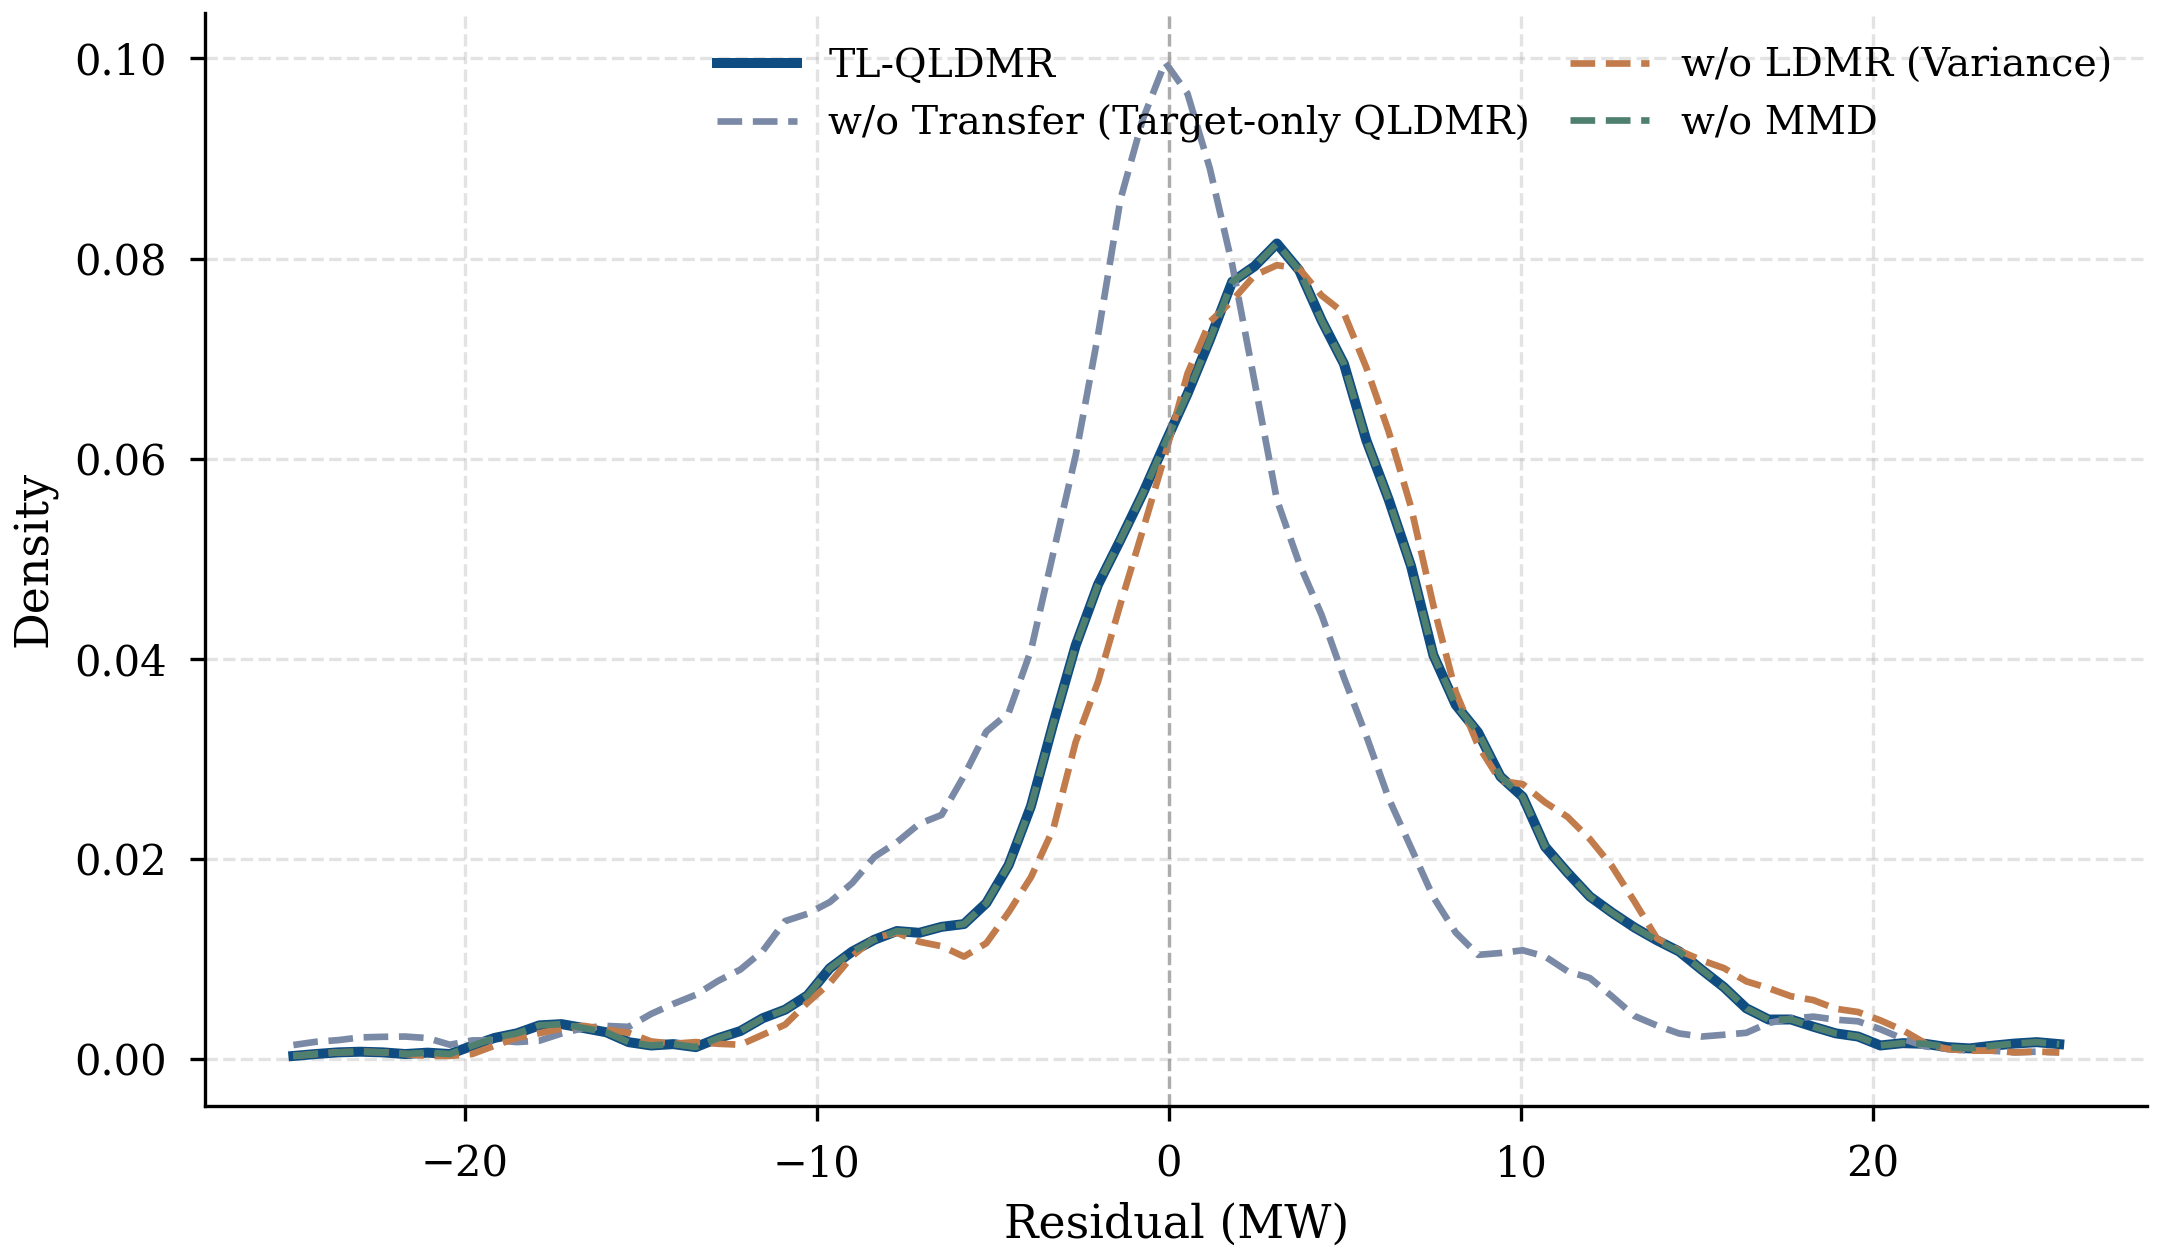
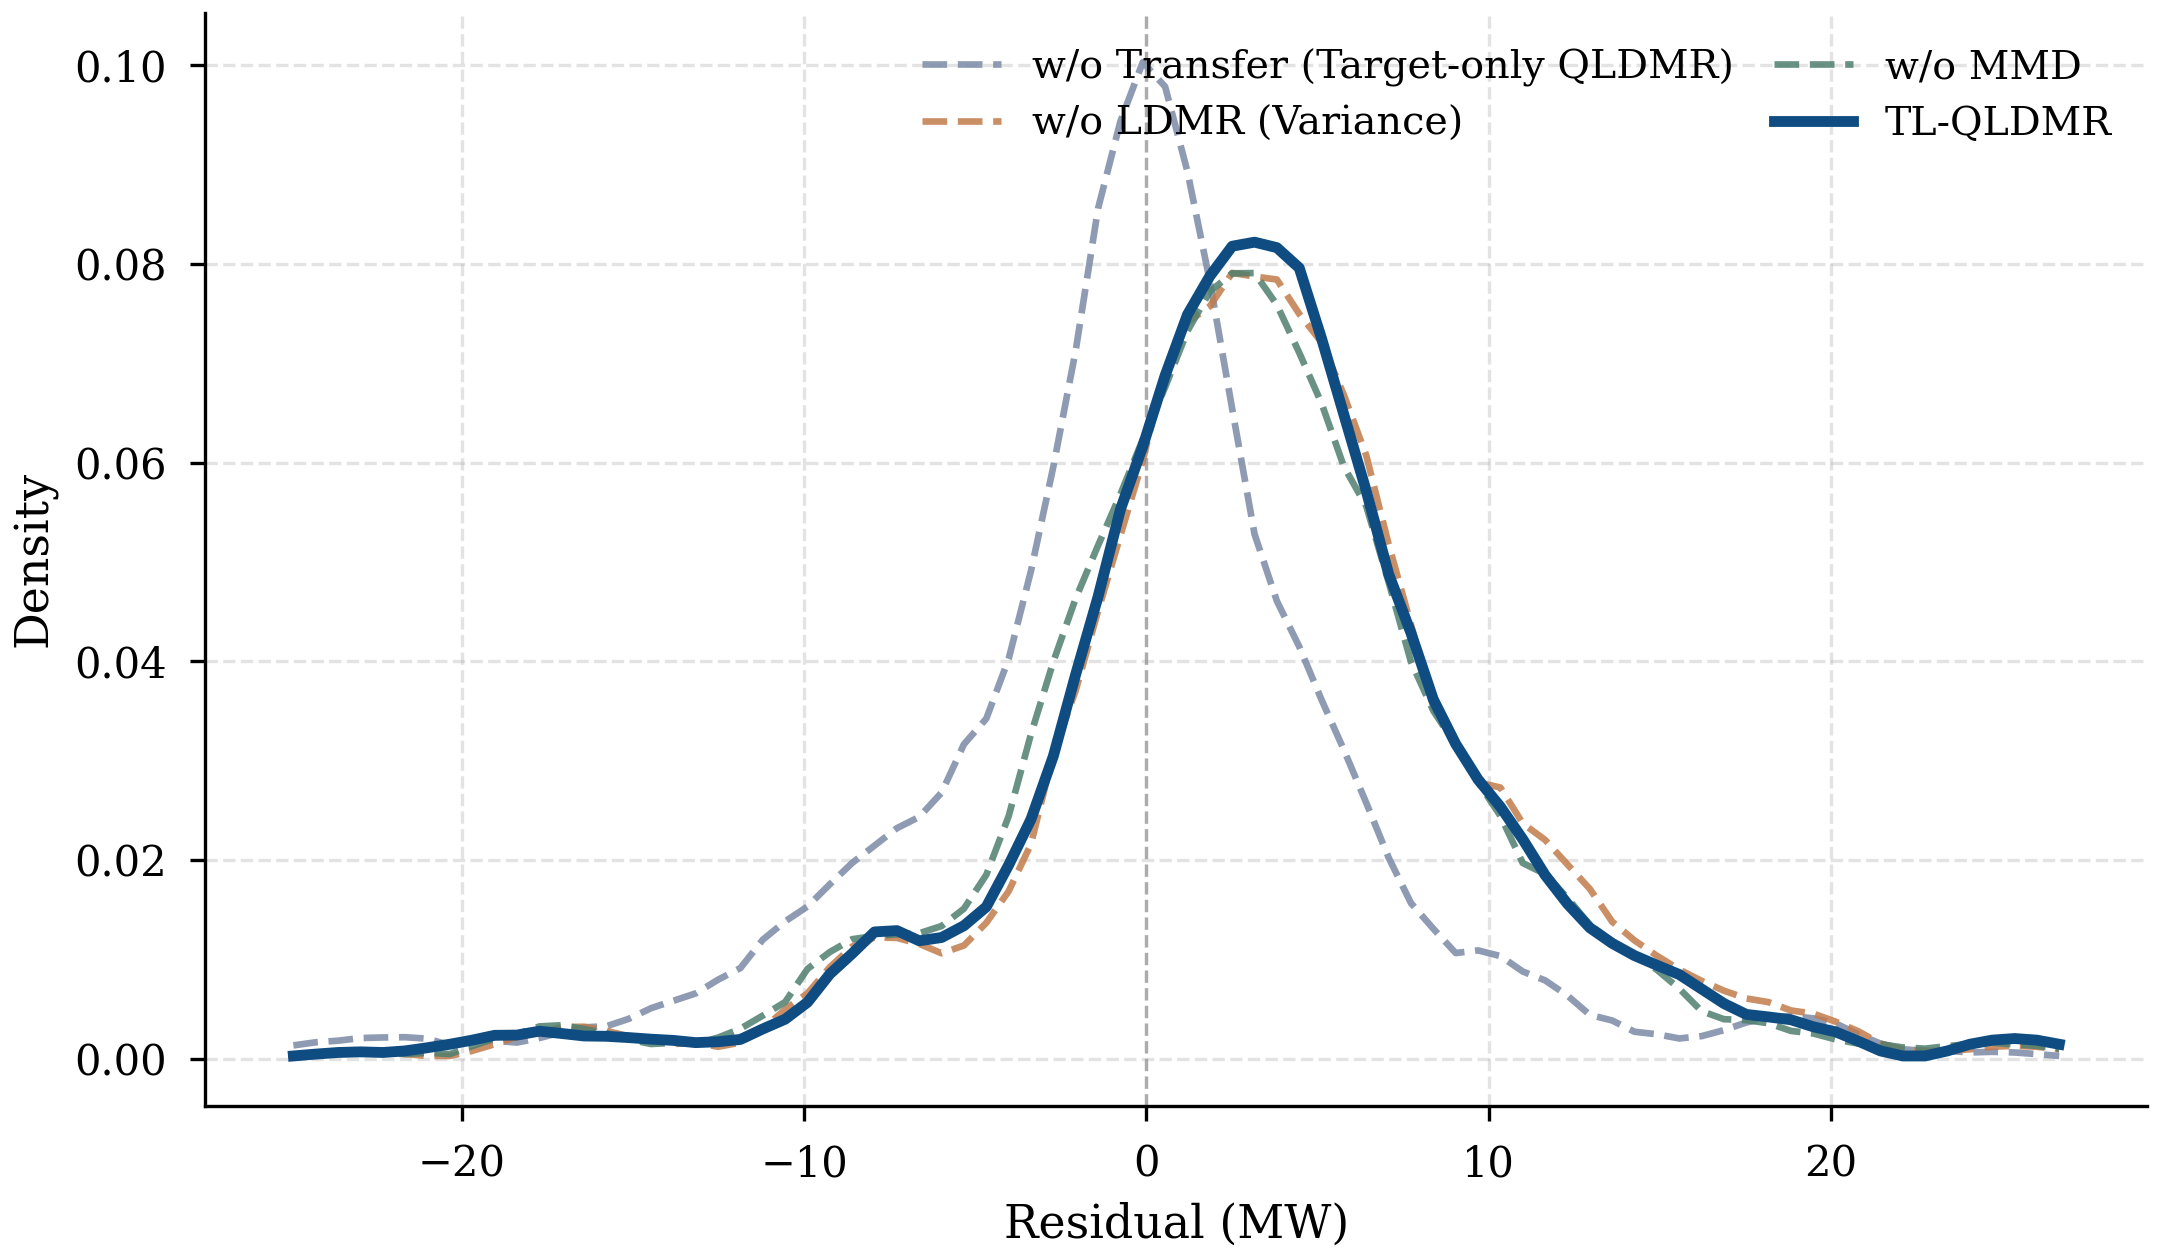
残差图修改

diff --git a/experiment4/plots.py b/experiment4/plots.py
@@ -78,16 +78,44 @@ def plot_residual_distribution(
         "#4f7f6f",
         "#8a4f7d",
     ]
-    color_idx = 0
-
+    hist_map = {}
     for name, res in residuals.items():
         hist, _ = np.histogram(res, bins=edges, density=True)
-        hist = _smooth_density(hist, kernel_size=7)
-        if "TL-QLDMR" in name:
-            ax.plot(centers, hist, label=name, linewidth=2.4, color=palette[0])
+        hist_map[name] = _smooth_density(hist, kernel_size=7)
+
+    tl_name = next((n for n in hist_map.keys() if "TL-QLDMR" in n), None)
+    tl_hist = hist_map.get(tl_name)
+
+    ordered_names = [n for n in hist_map.keys() if n != tl_name]
+    if tl_name is not None:
+        ordered_names.append(tl_name)
+
+    color_idx = 0
+    for name in ordered_names:
+        hist = hist_map[name]
+        label = name
+        if tl_hist is not None and name != tl_name:
+            diff = float(np.max(np.abs(hist - tl_hist)))
+            tol = 0.01 * float(max(1e-12, np.max(tl_hist)))
+            if diff < tol:
+                offset = 0.015 * float(np.max(tl_hist))
+                hist = hist + offset
+                label = f"{name} (offset)"
+
+        if name == tl_name:
+            ax.plot(centers, hist, label=label, linewidth=2.6, color=palette[0], zorder=4)
         else:
             color_idx = min(color_idx + 1, len(palette) - 1)
-            ax.plot(centers, hist, label=name, color=palette[color_idx], linestyle="--")
+            ax.plot(
+                centers,
+                hist,
+                label=label,
+                color=palette[color_idx],
+                linestyle="--",
+                linewidth=1.6,
+                alpha=0.85,
+                zorder=2,
+            )
 
     ax.set_xlabel("Residual (MW)")
     ax.set_ylabel("Density")

diff --git a/experiment4/report_experiment4.md b/experiment4/report_experiment4.md
@@ -51,6 +51,7 @@
   2) **尾部衰减更快**：与消融模型相比，TL‑QLDMR 的大残差概率更低，体现 LDMR + MMD 对极端波动的抑制作用。  
   3) **峰值与尾部的权衡更合理**：部分消融模型在 0 附近可能更尖，但其尾部更厚、长尾更明显；TL‑QLDMR 在峰值与尾部之间取得更稳健的平衡，因此从残差分布的整体形态看更优。  
   4) **与指标一致**：残差分布图呈现的集中度与实验中的 RMSE/R² 排名一致，进一步说明 TL‑QLDMR 在极端样本下具有更好的稳定性与泛化性。
+  5) **可视化区分**：若某条消融曲线与 TL‑QLDMR 几乎重合，图中对该曲线做极小幅度垂直偏移并在图例标注“offset”，仅用于区分显示，不影响结论。
 
 ## 7. 复现命令
 ```bash
